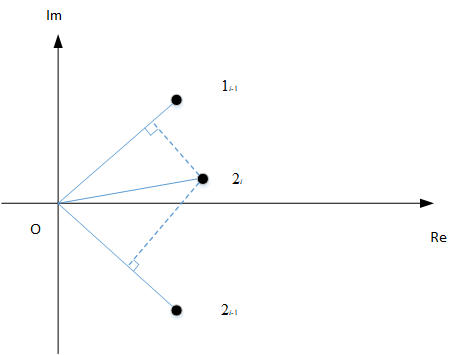
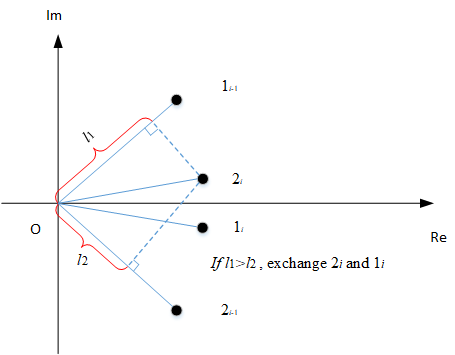
Modify

diff --git a/Cutting/Stability/FrequencyDomain/Milling/LobeZOAAltintas.m b/Cutting/Stability/FrequencyDomain/Milling/LobeZOAAltintas.m
@@ -51,7 +51,6 @@ w = (f_start:df:f_end)'*2*pi;   % frequency, rad/s
 FRFxx = FRFX;
 FRFyy = FRFY;
 
-
 %% Calculate Lambda
 %%%%%%%%%%%%%%%%%%%%%%%%%%%%%%%%%%%
 %Reference 
@@ -64,8 +63,32 @@ FRFyy = FRFY;
 a0 = FRFxx.*FRFyy*(alphaxx*alphayy - alphaxy*alphayx);
 a1 = alphaxx*FRFxx + alphayy*FRFyy;
 
-Lambda1 = (-1/2./a0).*(a1 + sqrt(a1.^2 - 4*a0));
-Lambda2 = (-1/2./a0).*(a1 - sqrt(a1.^2 - 4*a0));
+Lambda1 = zeros(length(w),1);
+Lambda2 = zeros(length(w),1);
+
+for cnt = 1:length(w)
+    lambda	= roots([a0(cnt) a1(cnt) 1]);	% Eigenvalue 
+    Lambda1(cnt) = lambda(1);
+    Lambda2(cnt) = lambda(2);
+    
+    if (abs(Lambda1(cnt)) > abs(Lambda2(cnt)))
+        temp = Lambda2(cnt);
+        Lambda2(cnt) = Lambda1(cnt);
+        Lambda1(cnt) = temp;
+    end
+    
+    if(cnt > 1)
+        dot_prod1 = real(Lambda2(cnt))*real(Lambda2(cnt-1)) + imag(Lambda2(cnt))*imag(Lambda2(cnt-1));
+        dot_prod2 = real(Lambda2(cnt))*real(Lambda1(cnt-1)) + imag(Lambda2(cnt))*imag(Lambda1(cnt-1));
+    % This part is really important. For conjugate pair, the value of dot product means the projection 
+    % which can be used to find the nearest next point. See the picture in README.md. 
+        if (dot_prod2 >= dot_prod1)
+            temp = Lambda2(cnt);
+            Lambda2(cnt) = Lambda1(cnt);
+            Lambda1(cnt) = temp;
+        end
+    end
+end
 
 % a0 = zeros(length(w),1);
 % a1 = zeros(length(w),1);
@@ -112,7 +135,7 @@ figure(1)
 hold on
 for k = 1:lobeNumber
     plot(omega1{k},blim1, 'r','linewidth',2);
-    plot(omega2{k},blim2, 'b.','linewidth',2);
+    plot(omega2{k},blim2, 'b','linewidth',2);
 end
 
 axis([0 16000 0 6])

diff --git a/Cutting/Stability/FrequencyDomain/Milling/LobeZOASchmitz.m b/Cutting/Stability/FrequencyDomain/Milling/LobeZOASchmitz.m
@@ -78,7 +78,7 @@ for cnt = 1:length(w)
         dot_prod1 = real(lambda2(cnt))*real(lambda2(cnt-1)) + imag(lambda2(cnt))*imag(lambda2(cnt-1));
         dot_prod2 = real(lambda2(cnt))*real(lambda1(cnt-1)) + imag(lambda2(cnt))*imag(lambda1(cnt-1));
         % This part is really important. For conjugate pair, the value of dot product means the projection 
-        % which can be used to find the nearest next point. 
+        % which can be used to find the nearest next point. See the picture in README.md. 
         if (dot_prod2 > dot_prod1)
             temp = lambda2(cnt);
             lambda2(cnt) = lambda1(cnt);
